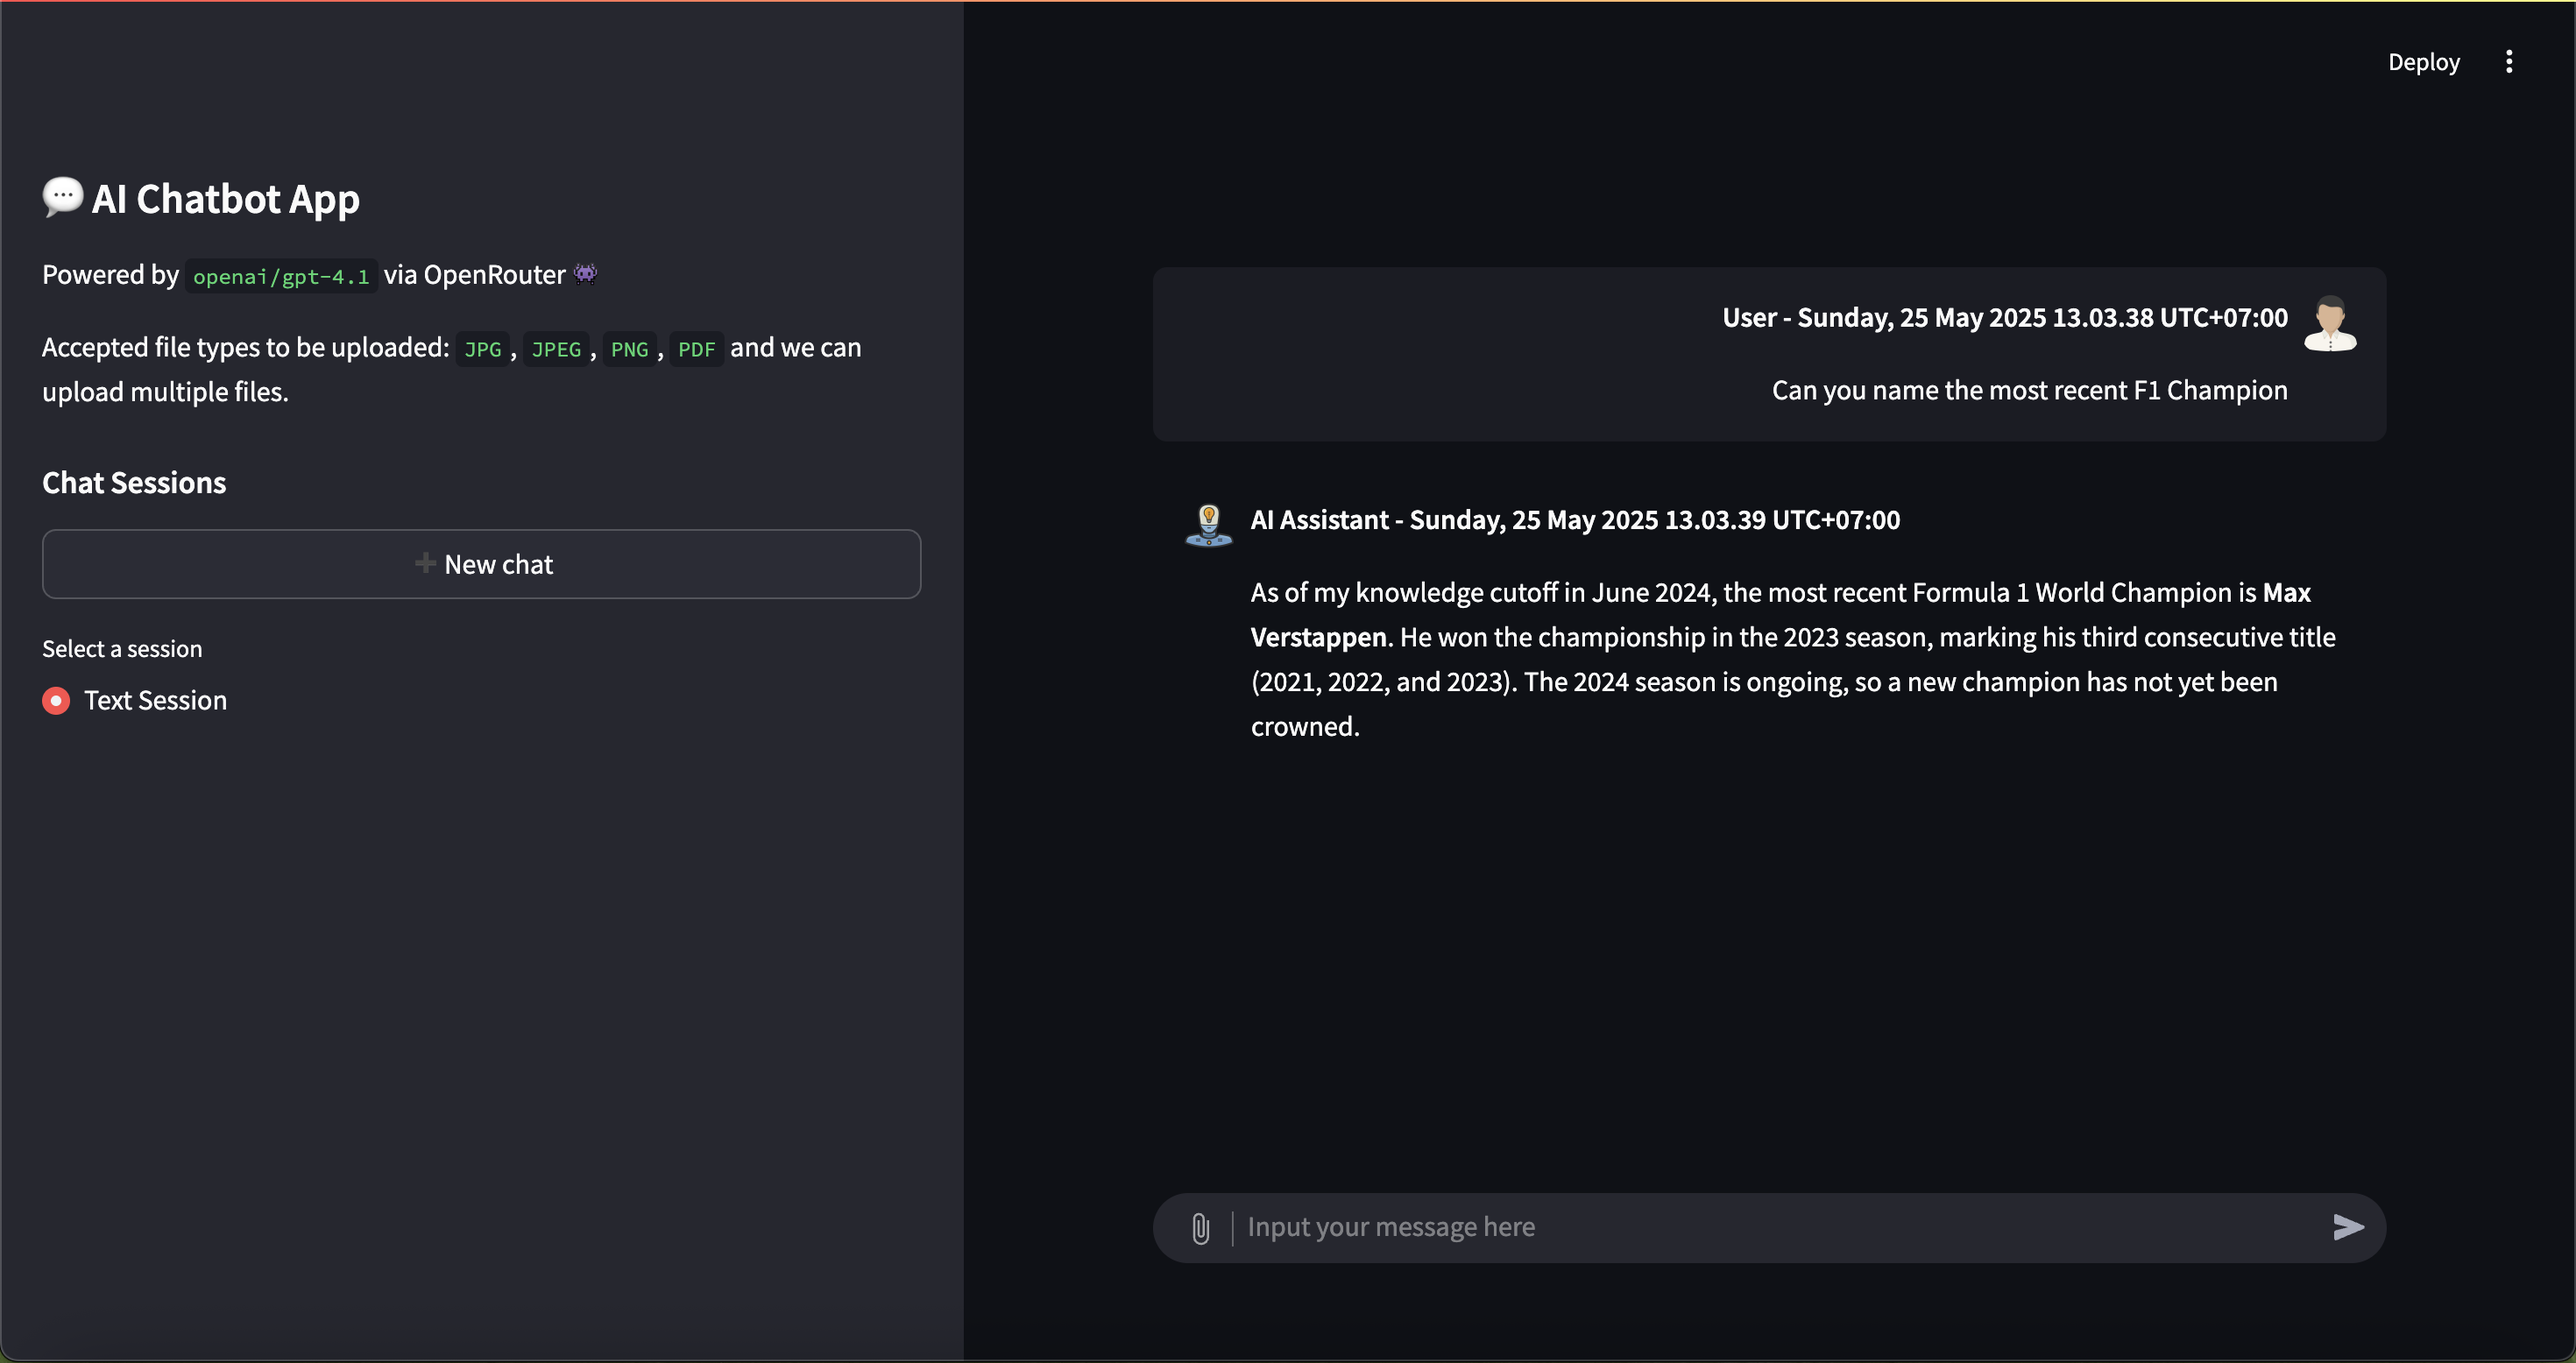
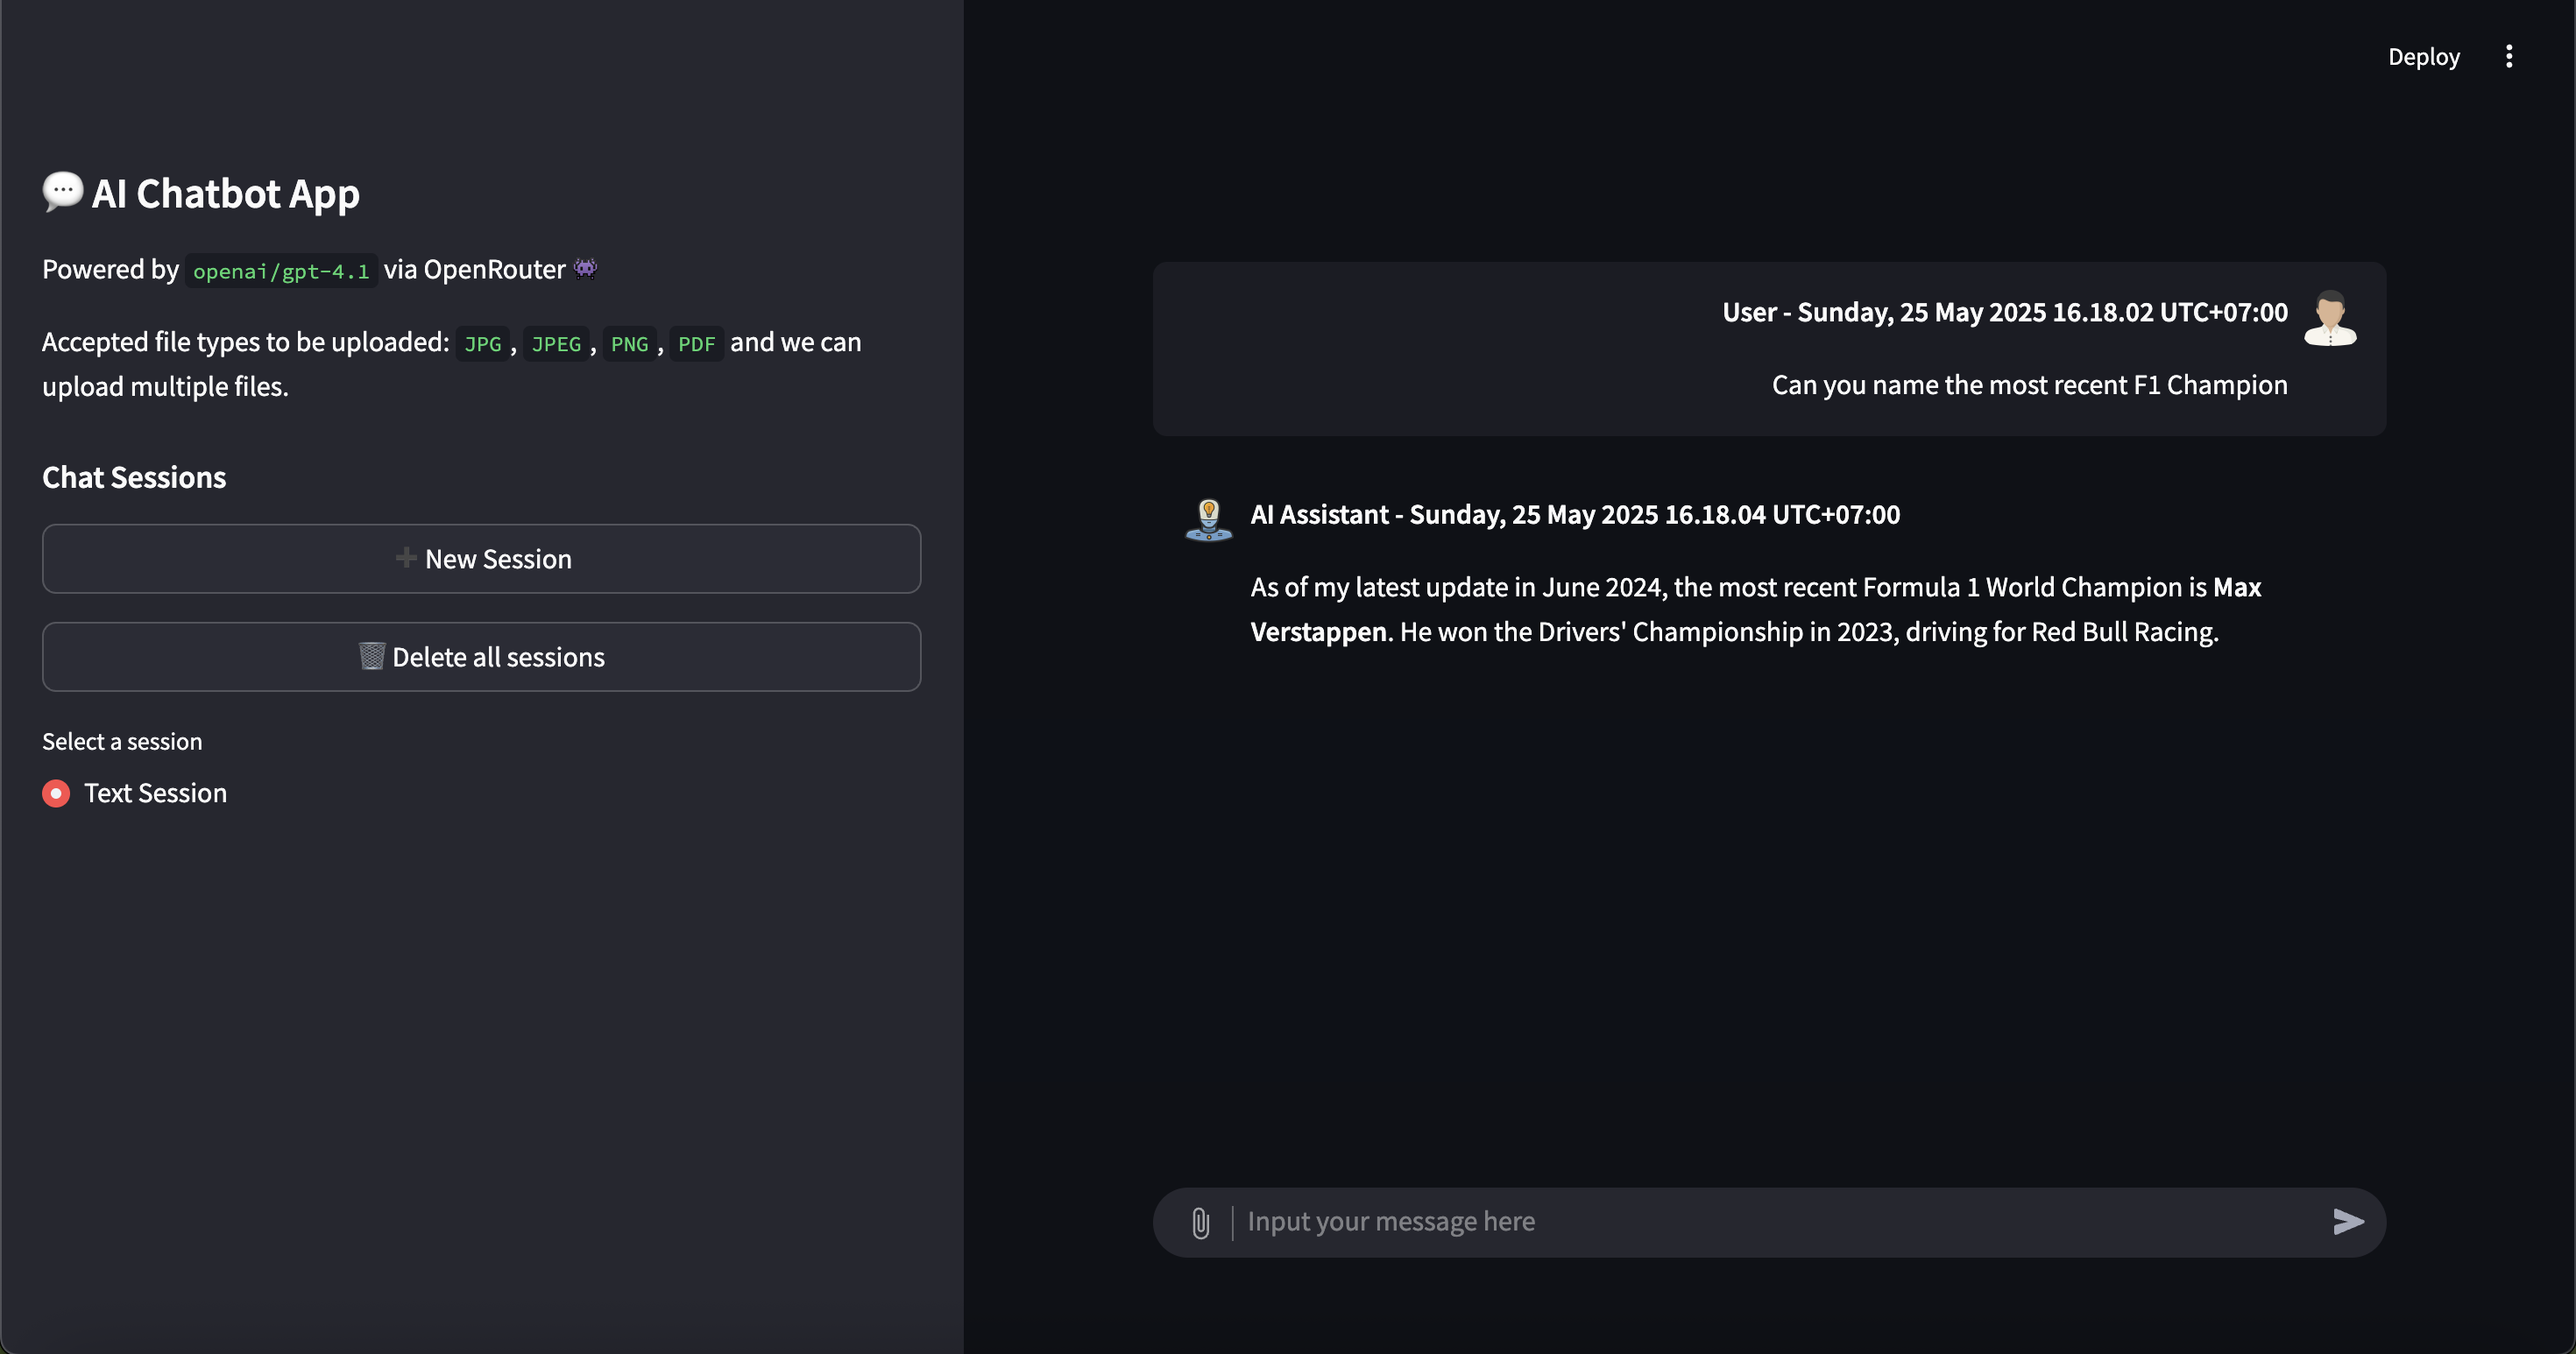
Update README.md

diff --git a/README.md b/README.md
@@ -2,20 +2,21 @@
 
 ### Table of Contents
 
-- [fun_project_2_REAPYTHON1SMAGM](#fun_project_2_reapython1smagm)
-  - [Table of Contents](#table-of-contents)
-  - [Project Description](#project-description)
-  - [How to Setup Project](#how-to-setup-project)
-  - [How to Obtain OpenRouter API Key](#how-to-obtain-openrouter-api-key)
-  - [Usage](#usage)
-  - [Features](#features)
-  - [Demo](#demo)
-    - [Send a text](#send-a-text)
-    - [Send an image](#send-an-image)
-    - [Send a PDF File](#send-a-pdf-file)
-    - [Session Validation](#session-validation)
-      - [Empty Session](#empty-session)
-      - [Duplicate Session](#duplicate-session)
+- [fun\_project\_2\_REAPYTHON1SMAGM](#fun_project_2_reapython1smagm)
+    - [Table of Contents](#table-of-contents)
+    - [Project Description](#project-description)
+    - [How to Setup Project](#how-to-setup-project)
+    - [How to Obtain OpenRouter API Key](#how-to-obtain-openrouter-api-key)
+    - [Usage](#usage)
+    - [Features](#features)
+    - [Demo](#demo)
+      - [Send a text](#send-a-text)
+      - [Send an image](#send-an-image)
+      - [Send a PDF File](#send-a-pdf-file)
+      - [Session Validation](#session-validation)
+        - [Empty Session](#empty-session)
+        - [Duplicate Session](#duplicate-session)
+      - [Delete All Sessions](#delete-all-sessions)
 
 ### Project Description
 
@@ -143,3 +144,18 @@ In this project, the features include:
 
 - It will get the validation that says :
   - **"Session name already exists. Please choose a different name."**
+
+#### Delete All Sessions
+
+![Screenshot](screenshots/Delete%20All%20Session%20Prompt.png)
+
+- Click the button **"Delete all sessions"**
+
+![Screenshot](screenshots/Delete%20All%20Sessions%20Confirmation.png)
+
+- Click the button **"Yes, delete all sessions"** to proceed with deletion
+
+![Screenshot](screenshots/Delete%20All%20Sessions%20Result.png)
+
+- We have reset the sessions state and back to the initial state of the
+  application where we don't have saved sessions.
